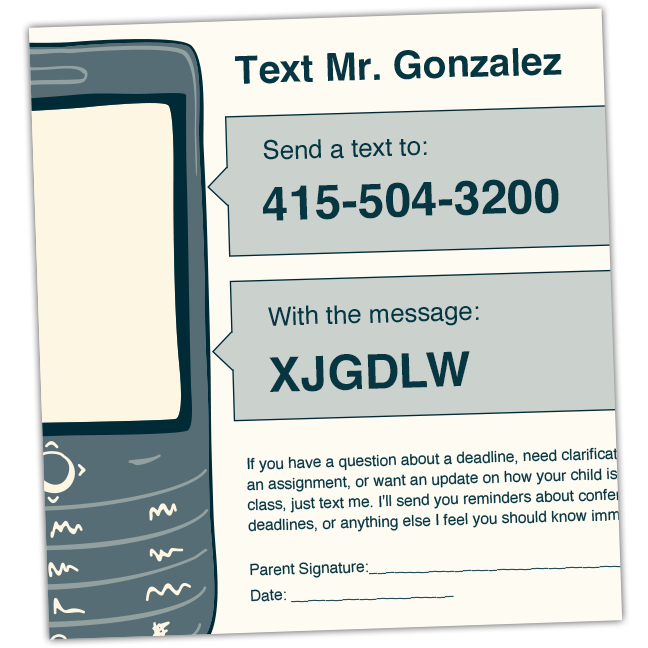
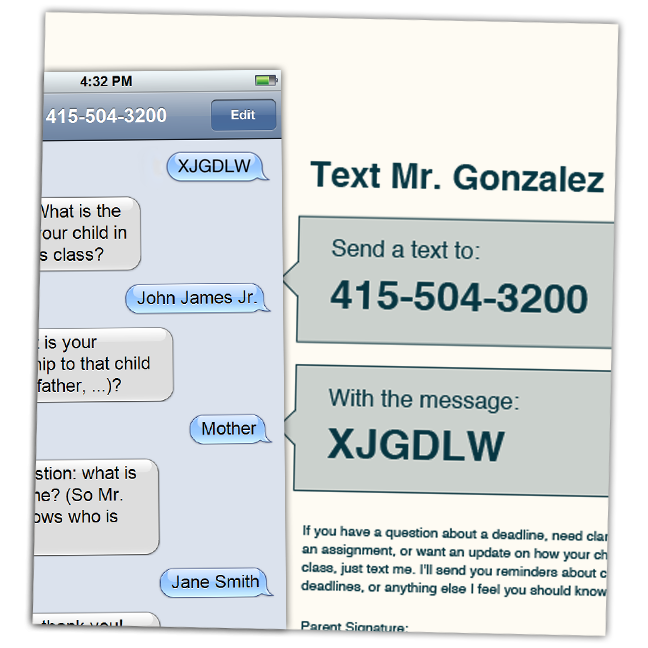
More landing focus on parent signup

diff --git a/static/css/screen.css b/static/css/screen.css
@@ -1594,8 +1594,19 @@ button {
 }
 
 @media (min-width: 43.875em) {
+  .signup-feature {
+    background: url('../images/landing/signup.png?1357934092') no-repeat scroll right;
+    -webkit-background-clip: padding;
+    -moz-background-clip: padding;
+    background-clip: padding-box;
+    -webkit-background-size: 44.3038% auto;
+    -moz-background-size: 44.3038% auto;
+    -o-background-size: 44.3038% auto;
+    background-size: 44.3038% auto;
+  }
+
   .two-way-feature {
-    background: url('../images/landing/twoway.png?1355776712') no-repeat scroll right 85%;
+    background: url('../images/landing/twoway.png?1355776712') no-repeat scroll left 85%;
     -webkit-background-clip: padding;
     -moz-background-clip: padding;
     background-clip: padding-box;
@@ -1606,18 +1617,7 @@ button {
   }
 
   .elders-feature {
-    background: url('../images/landing/elders.png?1351725897') no-repeat scroll left 85%;
-    -webkit-background-clip: padding;
-    -moz-background-clip: padding;
-    background-clip: padding-box;
-    -webkit-background-size: 44.3038% auto;
-    -moz-background-size: 44.3038% auto;
-    -o-background-size: 44.3038% auto;
-    background-size: 44.3038% auto;
-  }
-
-  .signup-feature {
-    background: url('../images/landing/signup.png?1357860079') no-repeat scroll right;
+    background: url('../images/landing/elders.png?1351725897') no-repeat scroll right 85%;
     -webkit-background-clip: padding;
     -moz-background-clip: padding;
     background-clip: padding-box;

diff --git a/templates/landing.html b/templates/landing.html
@@ -27,6 +27,15 @@
 
   {# Features ------------------------------------- #}
   <section class="features">
+    <article class="feature signup-feature">
+      <h3 class="feature-title">Easily sign up&nbsp;parents.</h3>
+      <p>
+        Parents sign up for your class by texting us your code.
+        We ask them a few questions,
+        and automatically save their information for you.
+        Send home the code, and we'll handle the rest!
+      </p>
+    </article>
     <article class="feature two-way-feature">
       <h3 class="feature-title">Two-way communication</h3>
       <p>
@@ -44,13 +53,6 @@
         Keep the entire faculty in the loop about every student.
         Add multiple family members to the conversation.
         Mom, Dad, Grandma,&nbsp;Grandpa...
-      </p>
-    </article>
-    <article class="feature signup-feature">
-      <h3 class="feature-title">Easily sign up&nbsp;parents.</h3>
-      <p>
-        Send home a sign-up sheet as homework with your students,
-        and parents take care of the&nbsp;rest.
       </p>
     </article>
   </section>

diff --git a/sass/modules/_landing.scss b/sass/modules/_landing.scss
@@ -101,9 +101,9 @@
 }
 
 @include at-breakpoint($break) {
-  .two-way-feature { @include feature-background('landing/twoway.png', right, 85%); }
-  .elders-feature { @include feature-background('landing/elders.png', left, 85%); }
   .signup-feature { @include feature-background('landing/signup.png', right); }
+  .two-way-feature { @include feature-background('landing/twoway.png', left, 85%); }
+  .elders-feature { @include feature-background('landing/elders.png', right, 85%); }
 }
 
 // ---------------------------------------------------------------------------
